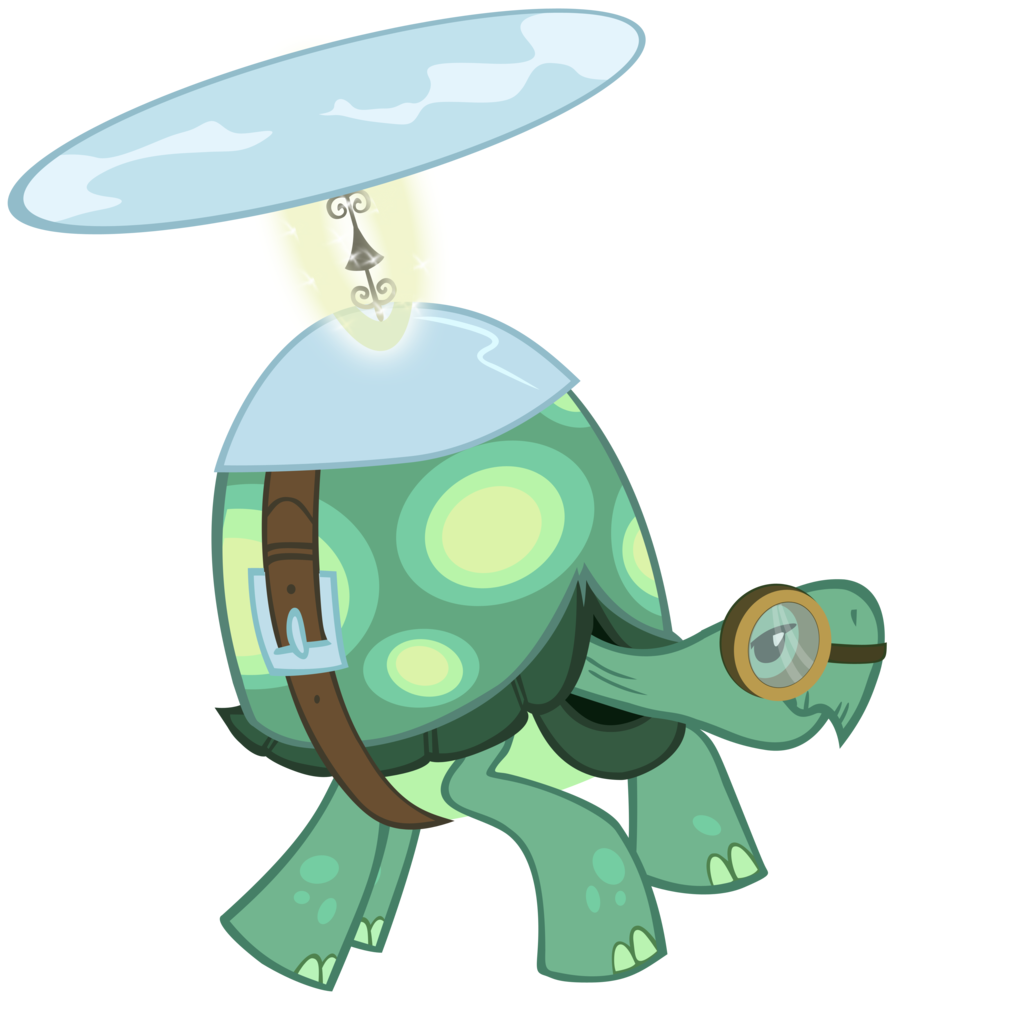
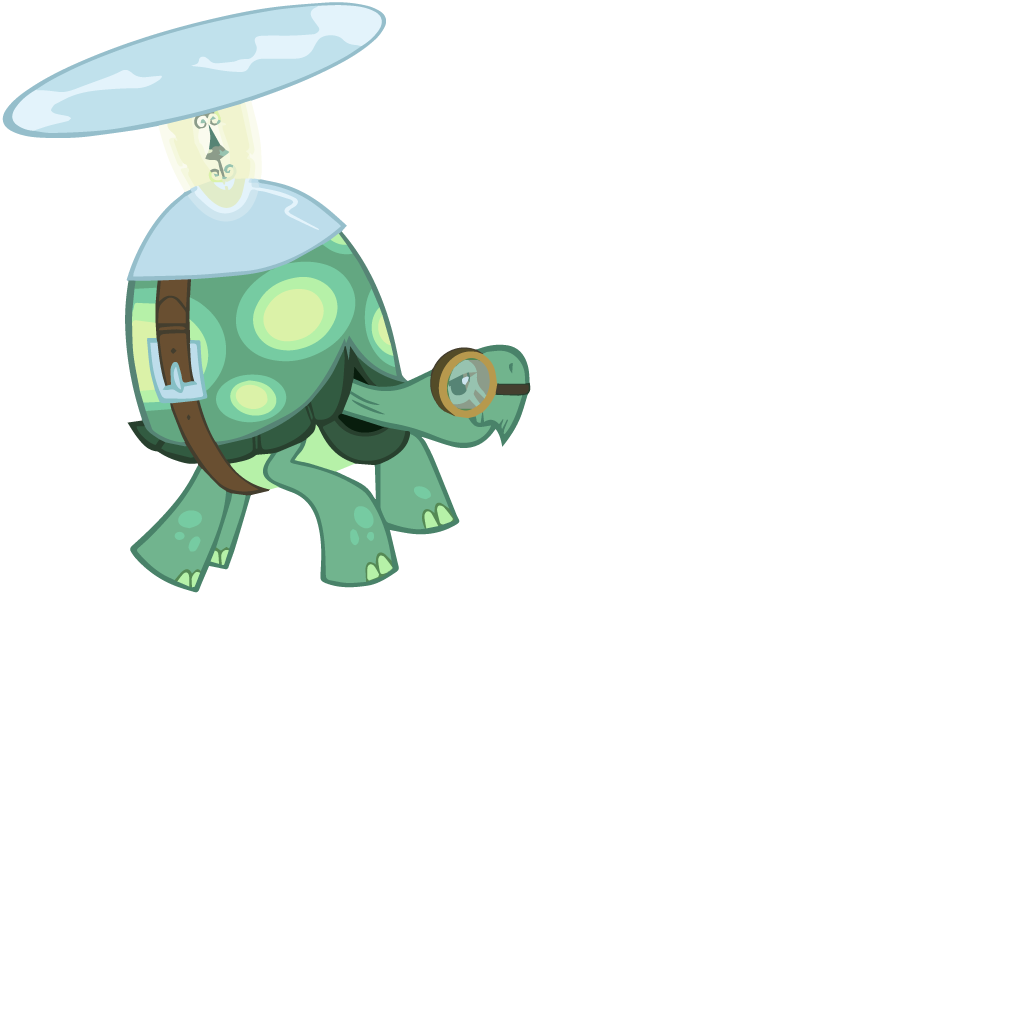
Implemented Tank marker on progress bar Removed debug boundry Removed white background on tank

diff --git a/core/src/com/brendanmccluer/spikequest/screens/gameScreens/RainbowRaceScreen.java b/core/src/com/brendanmccluer/spikequest/screens/gameScreens/RainbowRaceScreen.java
@@ -12,6 +12,7 @@ import com.badlogic.gdx.math.Rectangle;
 import com.badlogic.gdx.math.Vector2;
 import com.brendanmccluer.spikequest.SpikeQuestGame;
 import com.brendanmccluer.spikequest.cameras.SpikeQuestCamera;
+import com.brendanmccluer.spikequest.common.objects.RainbowRaceProgressBar;
 import com.brendanmccluer.spikequest.interfaces.RainbowRaceObject;
 import com.brendanmccluer.spikequest.managers.SpikeQuestScreenManager;
 import com.brendanmccluer.spikequest.objects.AbstractSpikeQuestSpriteObject;
@@ -54,6 +55,7 @@ public class RainbowRaceScreen extends AbstractSpikeQuestScreen {
     private static int gemCount = 0;
     private static TankObject aTankObject;
     private static RainbowDashObject aRainbowDashObject;
+    private static RainbowRaceProgressBar progressBar;
     private static List<RainbowRaceObject> rings;
     private static List<RainbowRaceObject> clouds;
     private static List<GemObject> gems;
@@ -78,6 +80,10 @@ public class RainbowRaceScreen extends AbstractSpikeQuestScreen {
         super(game);
         if (tiledMapList == null) {
             initialize();
+        }
+        else {
+            //update part in progress bar
+            progressBar.tankPart++;
         }
         aTankObject.controlsDisabled = false;
         Random random = new Random();
@@ -115,6 +121,7 @@ public class RainbowRaceScreen extends AbstractSpikeQuestScreen {
         setSprite = new Sprite(new Texture("textures/SetTexture.png"));
         goSprite = new Sprite(new Texture("textures/GoTexture.png"));
         startMessageSprite = new Sprite();
+        progressBar = new RainbowRaceProgressBar();
     }
 
     /**
@@ -124,15 +131,19 @@ public class RainbowRaceScreen extends AbstractSpikeQuestScreen {
     @Override
     public void render(float delta) {
         useLoadingScreen(delta);
-        if (screenStart || (game.assetManager.loadAssets() && aTankObject.isLoaded() && aRainbowDashObject.isLoaded() && loadListOfObjects(rings) && loadListOfObjects(clouds) && GemObject.gemsLoaded(gems))) {
+        if (screenStart || (game.assetManager.loadAssets() && aTankObject.isLoaded() && aRainbowDashObject.isLoaded() && loadListOfObjects(rings) && loadListOfObjects(clouds)
+                && GemObject.gemsLoaded(gems) && progressBar.isLoaded())) {
             refresh();
 
             /**SCREEN START**/
             if (!screenStart) {
                 aTankObject.spawn(gameCamera.getCameraWidth()/2, gameCamera.getCameraHeight()/2);
+                aRainbowDashObject.spawn(gameCamera.getCameraWidth()/2, gameCamera.getCameraHeight()/2);
                 spawnListInTileLayer(rings, RING_LAYER);
                 spawnListInTileLayer(clouds, CLOUD_LAYER);
                 spawnGems();
+                progressBar.position.x = foregroundCamera.getCameraPositionX() - foregroundCamera.getCameraWidth()/2 + (foregroundCamera.getCameraWidth() - progressBar.getWidth())/2;
+                progressBar.position.y = foregroundCamera.getCameraPositionY() - foregroundCamera.getCameraHeight()/2 + 50;
                 screenStart = true;
             }
 
@@ -179,13 +190,13 @@ public class RainbowRaceScreen extends AbstractSpikeQuestScreen {
             game.batch.end();
 
             //**DEBUG**/
-            shapeRenderer.setAutoShapeType(true);
-            shapeRenderer.setProjectionMatrix(foregroundCamera.getProjectionMatrix());
-            shapeRenderer.setColor(Color.BLACK);
-            shapeRenderer.begin();
-            Rectangle debugRectangle = aTankObject.getCollisionRectangle();
-            shapeRenderer.box(debugRectangle.x, debugRectangle.y,0, debugRectangle.width, debugRectangle.height, 0);
-            shapeRenderer.end();
+//            shapeRenderer.setAutoShapeType(true);
+//            shapeRenderer.setProjectionMatrix(foregroundCamera.getProjectionMatrix());
+//            shapeRenderer.setColor(Color.BLACK);
+//            shapeRenderer.begin();
+//            Rectangle debugRectangle = aTankObject.getCollisionRectangle();
+//            shapeRenderer.box(debugRectangle.x, debugRectangle.y,0, debugRectangle.width, debugRectangle.height, 0);
+//            shapeRenderer.end();
             //**/
 
             game.batch.begin();
@@ -193,6 +204,7 @@ public class RainbowRaceScreen extends AbstractSpikeQuestScreen {
             drawRingsFront();
             GemObject.drawGemObjects(gems, game.batch);
             drawListOfObjects(clouds);
+            progressBar.draw(game.batch);
             if (startMessageSprite != null) {
                 startMessageSprite.setPosition(foregroundCamera.getCameraPositionX() - startMessageSprite.getWidth() / 2,
                         foregroundCamera.getCameraPositionY() - startMessageSprite.getHeight() / 2);
@@ -261,6 +273,12 @@ public class RainbowRaceScreen extends AbstractSpikeQuestScreen {
             gameCamera.translateCamera(0,translateVector.y);
             foregroundCamera.translateCamera(0, translateVector.y);
         }
+
+        //update progress bar
+        progressBar.position.x =  foregroundCamera.getCameraPositionX() - foregroundCamera.getCameraWidth()/2 + (foregroundCamera.getCameraWidth() - progressBar.getWidth())/2;
+        progressBar.position.y = foregroundCamera.getCameraPositionY() - foregroundCamera.getCameraHeight()/2 + 50;
+        progressBar.updateRainbowMarker(aRainbowDashObject.getCurrentPositionX()/foregroundCamera.getWorldWidth());
+        progressBar.updateTankMarker(aTankObject.getCurrentPositionX()/foregroundCamera.getWorldWidth());
     }
 
     /**
@@ -468,6 +486,8 @@ public class RainbowRaceScreen extends AbstractSpikeQuestScreen {
         tiledMapRenderer = null;
         tileMap.dispose();
         tileMap = null;
+        progressBar.dispose();
+        progressBar = null;
     }
 
     /**

diff --git a/desktop/src/com/brendanmccluer/spikequest/desktop/TextureAtlasCreator.java b/desktop/src/com/brendanmccluer/spikequest/desktop/TextureAtlasCreator.java
@@ -14,7 +14,7 @@ public class TextureAtlasCreator {
 
 		//TexturePacker.process("C:\\Users\\Brendan\\Documents\\SpikeQuestAssets\\Rarity\\Stand", "C:\\Users\\Brendan\\Documents\\SpikeQuest\\android\\assets\\rarity\\stand", "RarityStand");
 		//TexturePacker.process("C:\\Users\\brend\\Google Drive\\SpikeQuest\\RainbowRace\\Clouds\\Clouds", "C:\\Users\\brend\\Documents\\SpikeQuest\\android\\assets\\object\\clouds\\white", "CloudStand");
-		TexturePacker.process("C:\\Users\\brend\\Google Drive\\SpikeQuest\\RainbowRace\\Clouds\\DarkCloud", "C:\\Users\\brend\\Documents\\SpikeQuest\\android\\assets\\object\\clouds\\storm", "StormCloudStand");
+		TexturePacker.process("C:\\Users\\brend\\Google Drive\\SpikeQuest\\RainbowRace\\Tank", "C:\\Users\\brend\\Documents\\SpikeQuest\\android\\assets\\animals\\tank", "TankStand");
 	}
 
 }

diff --git a/core/src/com/brendanmccluer/spikequest/objects/TankObject.java b/core/src/com/brendanmccluer/spikequest/objects/TankObject.java
@@ -13,7 +13,7 @@ public class TankObject extends StandardObject {
     private static final String[] filePaths = {"animals/tank/TankStand.atlas", "animals/tank/TankStand.atlas"};
     private static final String[] fileTypes = {"TextureAtlas", "TextureAtlas"};
     private static final int[] maxFrames = {1,1};
-    private static final float STARTING_SIZE = 0.075f;
+    private static final float STARTING_SIZE = 0.1f;
     private static final int HIT_MAX = 3;
     private static final int HIT_ZONE_WIDTH = 1;
     private float speed = 50;
